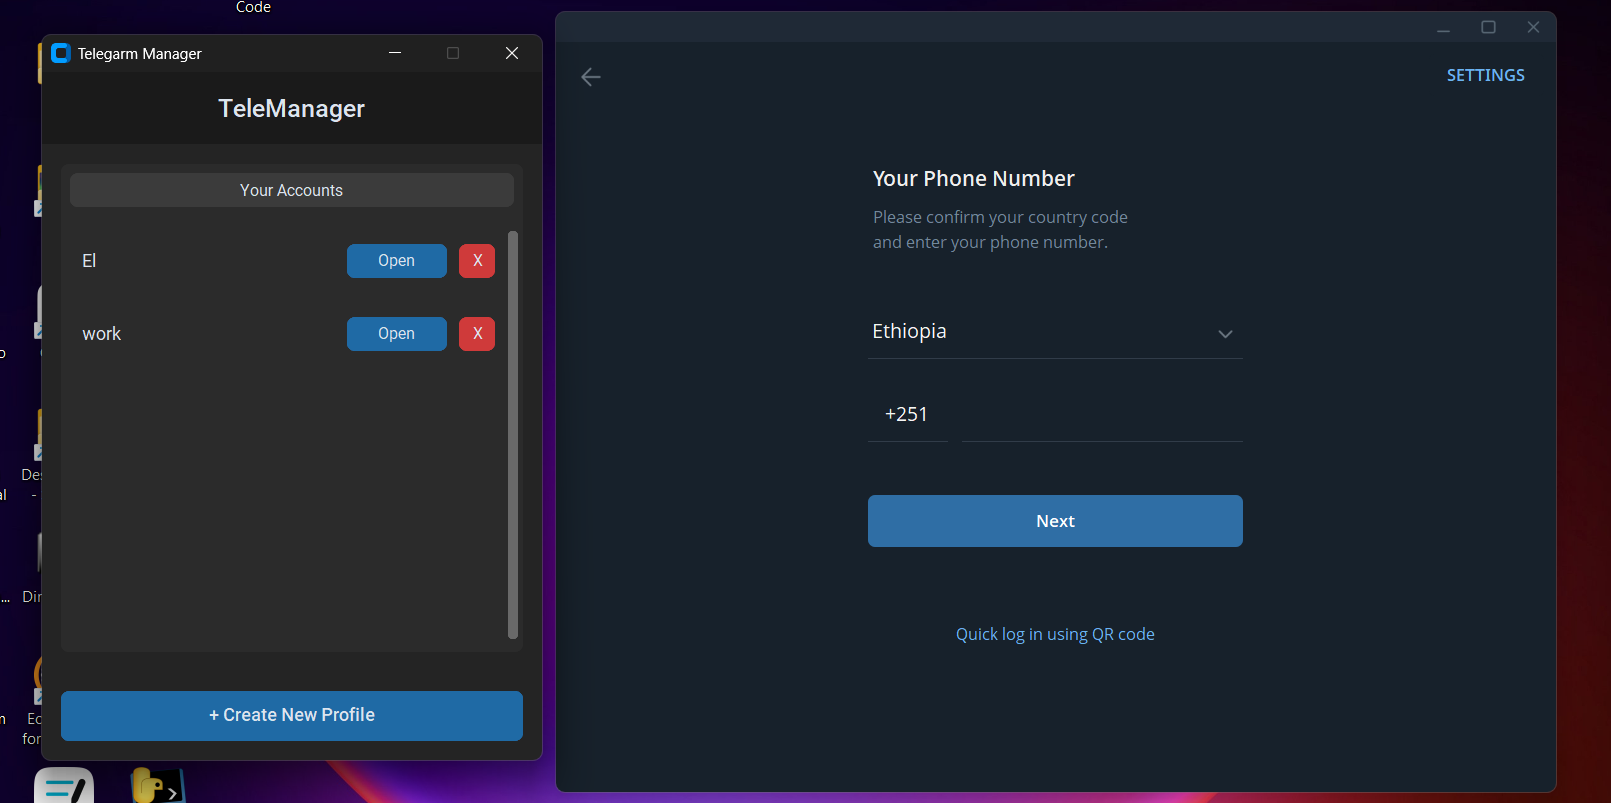
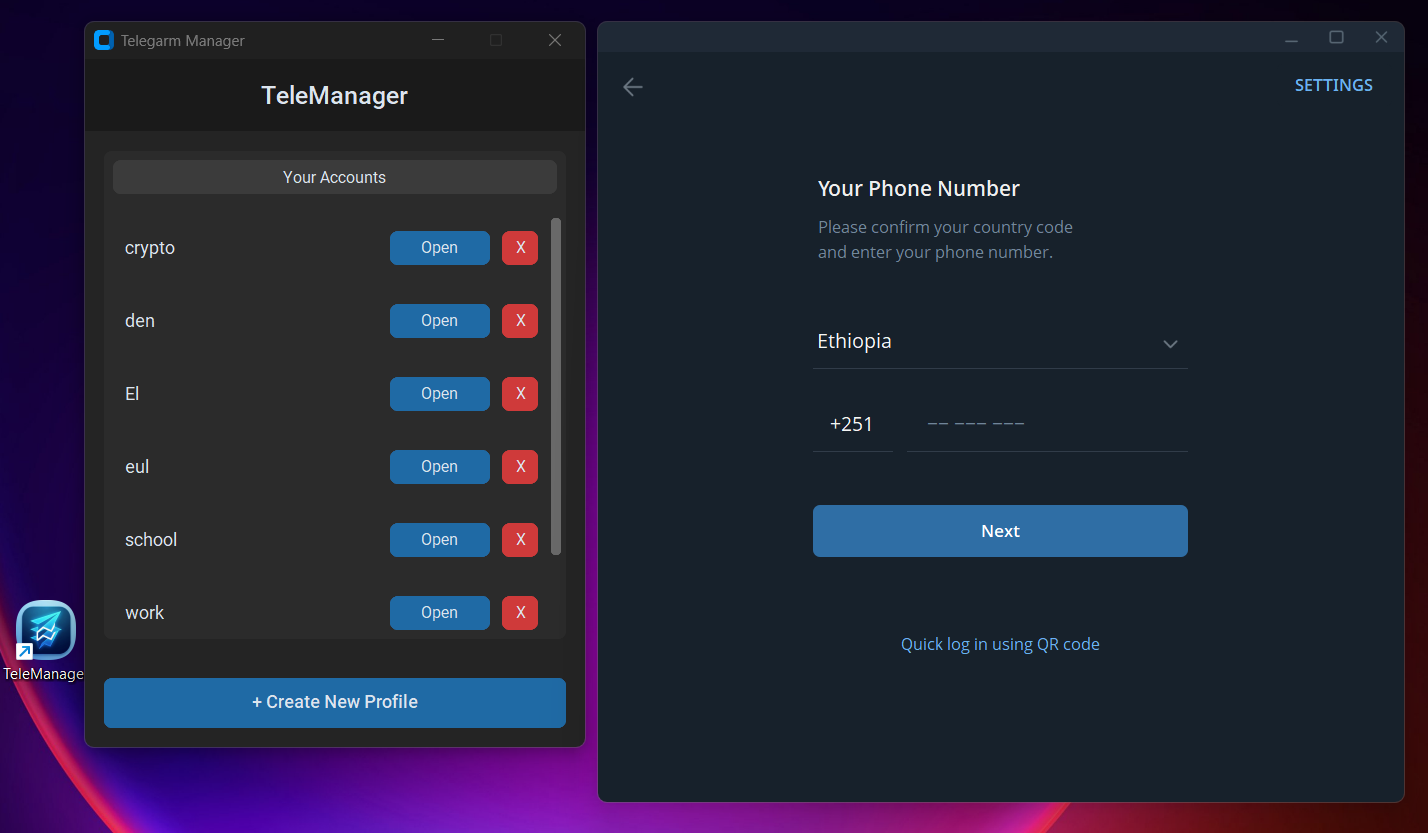
feat: introduce Telegram multi-profile manager
Initial commit for a GUI application to manage multiple Telegram profiles.
Allows creating, launching, and deleting distinct instances of Telegram.
Built using customtkinter for a modern user interface.
Includes project structure, .gitignore, and essential assets.
Requires Telegram.exe to be placed in the 'bin/' directory for operation.

diff --git a/README.md b/README.md
@@ -168,4 +168,4 @@ If you want to create the final `TeleManager_Setup.exe` installer yourself, foll
 
 ---
 
-Created with by **[Eyuel Engida](https://github.com/Eul45)**"# telemanager" 
+Created with by **[Eyuel Engida](https://github.com/Eul45)**
